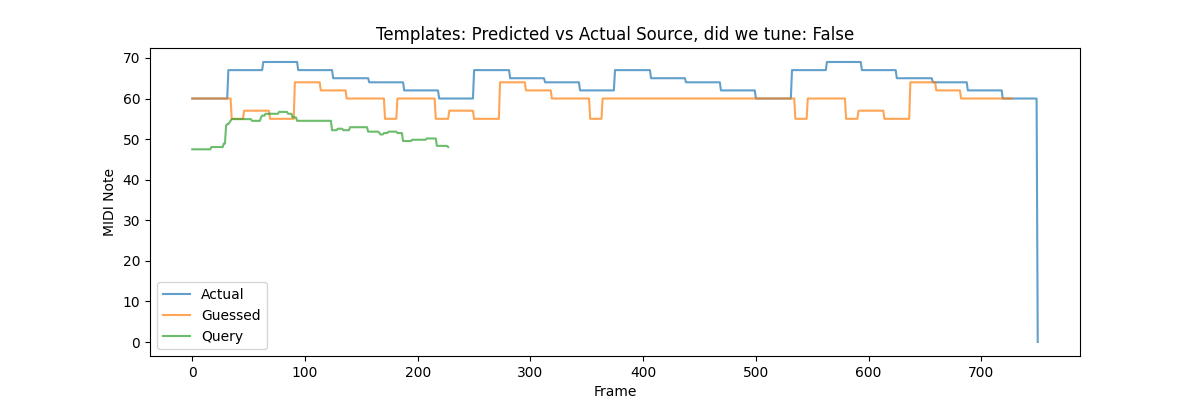
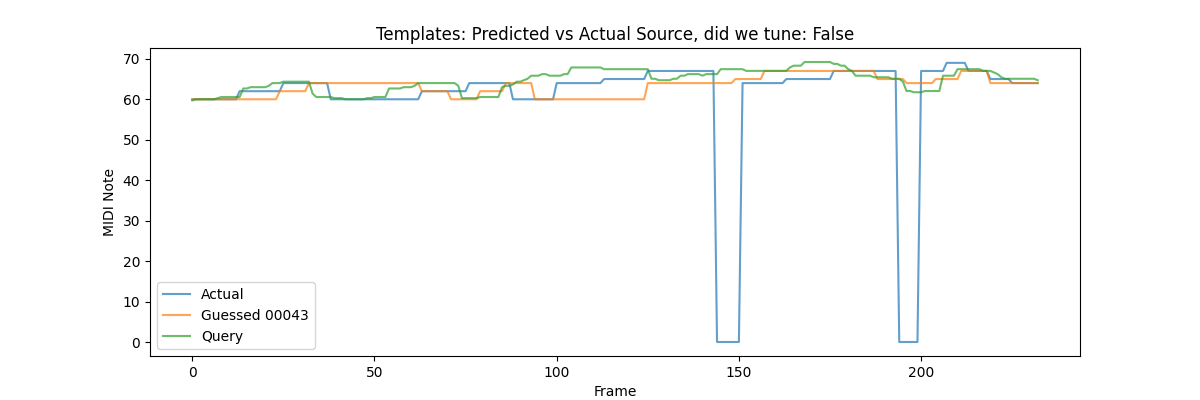
fix: sign error on error calcuation. made pretty graphs
added some nice commetns

diff --git a/dtw_wrapper.py b/dtw_wrapper.py
@@ -21,20 +21,20 @@ class DTWWrapper():
                           query: np.ndarray,
                           template: np.ndarray,
                           output: np.ndarray,
-                          a: float) -> np.float64:
+                          a: np.float64):
         """
             For each step:
                 calculate the error between the template and query
                 feed back the previous time step's error, scaled by how
                 aggressively we want to match the pitch
         """
-        e_i = query[idx] - template[idx]
+        e_i = -query[idx] + template[idx]
         if idx == 0:
             output[0] = a * e_i
             return
 
         self._tune_follow_step(idx-1, query, template, output, a)
-        output[idx] = a * e_i + (1-a)*(output[idx-1])
+        output[idx] = (a * e_i) + ((1-a) * (output[idx-1]))
         return
 
     def _tune_follow(self,
@@ -42,18 +42,22 @@ class DTWWrapper():
                      template: np.ndarray,
                      align_speed: float = 0.05) -> np.ndarray:
         """
-            By computing the pitch difference between the start of our query
-            andf template, and then subtracting that difference from every
-            element in the query, we get both sequences to start at the same key
-        """
-        # align pitch at start
-        d_beg = self._compute_d_beg(query, template)
-        query -= d_beg
+            see figure 6 in DOI: 10.2478/aoa-2014-0050
+            credit to Bartlomiej Stasiak
 
+            we are recursively calculating filter coeffs to scale our query
+            vector by. this is just taking the error at every time step and
+            biasing it with the previous time step to tell us whether to pitch
+            down or pitch up.
+
+            the rate of change can be adjusted (`align_speed`)
+        """
         # recursively calculate tune following
-        q_len = min(map(len, [query, template] ))
+        q_len = min(map(len, [query, template]))
         np.resize(query, (q_len,))
         np.resize(template, (q_len,))
+
+        # preallocate array to hold the query w/ tune following
         query_wtf = np.empty([q_len,], dtype=np.float64)*np.nan
 
         self._tune_follow_step(
@@ -61,7 +65,7 @@ class DTWWrapper():
             query,
             template,
             query_wtf,
-            align_speed
+            np.float64(align_speed)
         )
         return query + query_wtf
 
@@ -85,6 +89,15 @@ class DTWWrapper():
             template = self.database.load_template_midi(
                 template_info
             )
+
+            """
+            By computing the pitch difference between the start of our query
+            andf template, and then subtracting that difference from every
+            element in the query, we get both sequences to start at the same key
+            """
+            d_beg = self._compute_d_beg(query_in, template)
+            query_in -= d_beg
+
             if tuned:
                 query: np.ndarray = self._tune_follow(query_in, template)
             else:
@@ -100,5 +113,7 @@ class DTWWrapper():
             # LAZY
             costs.append(cost)
             templates.append(template_info)
-        # Return the most confident choice
-        return templates[np.argmin(costs)]
+
+        # Return the top 10 choices
+        templates = np.array(templates)
+        return templates[np.argsort(costs)[:10].tolist()].tolist()

diff --git a/test_dtw.py b/test_dtw.py
@@ -5,7 +5,7 @@ import matplotlib.pyplot as plt
 
 dataset = MIRQBSHDataset("./data/MIR-QBSH")
 
-query_path = dataset.query_files[1]
+query_path = dataset.query_files[7]
 raw_query = dataset.load_query_pv(query_path)
 
 template = dataset.load_template_midi(query_path.stem)
@@ -25,16 +25,20 @@ for do_we_tune in [False, True]:
 
     print(f"Predicted: {predicted_template}, actual: {query_path.stem}")
 
-    template_guessed = dataset.load_template_midi(predicted_template)
+    template_guessed = dataset.load_template_midi(predicted_template[0])
 
+    processed -= dtw_computer._compute_d_beg(
+        processed, template_guessed
+    )
     if do_we_tune:
-        tuned_processed = dtw_computer._tune_follow(processed, template_guessed)
+        tune_processed = dtw_computer._tune_follow(processed, template_guessed)
     else:
         tune_processed = processed
 
+    q_len = tune_processed.size
     plt.figure(figsize=(12, 4))
-    plt.plot(template, label='Actual', alpha=0.7)
-    plt.plot(template_guessed, label='Guessed', alpha=0.7)
+    plt.plot(template[:q_len], label='Actual', alpha=0.7)
+    plt.plot(template_guessed[:q_len], label=f'Guessed {predicted_template[0]}', alpha=0.7)
     plt.plot(tune_processed, label='Query', alpha=0.7)
     plt.legend()
     plt.xlabel('Frame')
